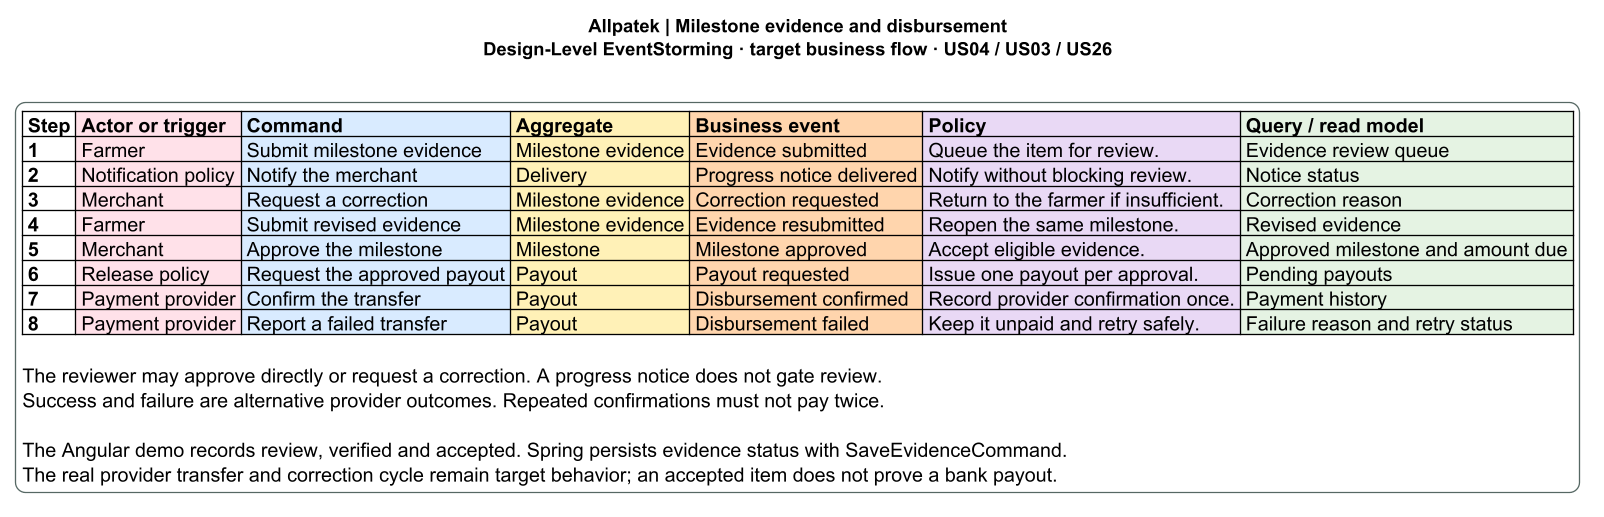
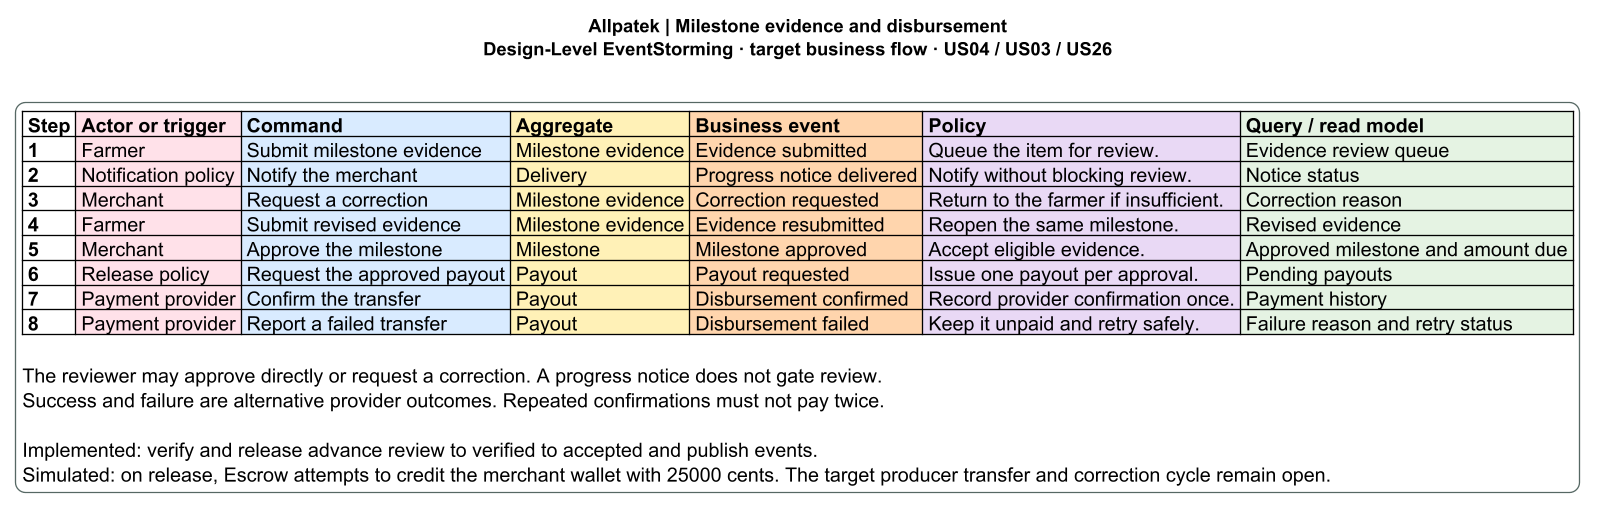
docs(eventstorming): distinguish merchant credit from producer settlement

Changed region(s): [[0.0, 0.8356, 0.8416, 0.9594]]

diff --git a/README.md b/README.md
@@ -2176,7 +2176,7 @@ En el diseño del negocio, el comerciante solicita una temporada y ambas partes 
 
 #### Seguimiento de hitos y desembolso
 
-El agricultor presenta la evidencia y el comerciante la aprueba o pide una corrección. Aprobar autoriza solicitar un desembolso. El historial de pagos solo debe mostrarlo como realizado cuando el proveedor confirma la transferencia. Un rechazo permite revisar la solicitud y reintentar sin duplicar el pago. El capítulo II deja abiertas las decisiones sobre el plazo de revisión, cómo resolver una discrepancia de calidad y quién asume una pérdida por clima. También queda por conciliar el calendario de cinco liberaciones del Big Picture con los hitos del 1 al 4 que acepta el backend. Esas decisiones necesitan validación de los participantes.
+En el diseño objetivo el comerciante puede devolver la evidencia para corrección y el proveedor confirma el pago al agricultor. En el código actual, `verify` y `release` verifican el estado anterior. La liberación da lugar al crédito simulado del comerciante. Quedan por acordar el plazo de revisión, el criterio de calidad, las pérdidas por clima y la correspondencia entre las cinco liberaciones previstas en el Big Picture y los cuatro hitos admitidos por el código.
 
 ![Figura 4.6.1-C. Modelo propuesto para evidencia, revisión y desembolso](assets/chapter-04/architecture/01b-milestone-payout.png)
 
